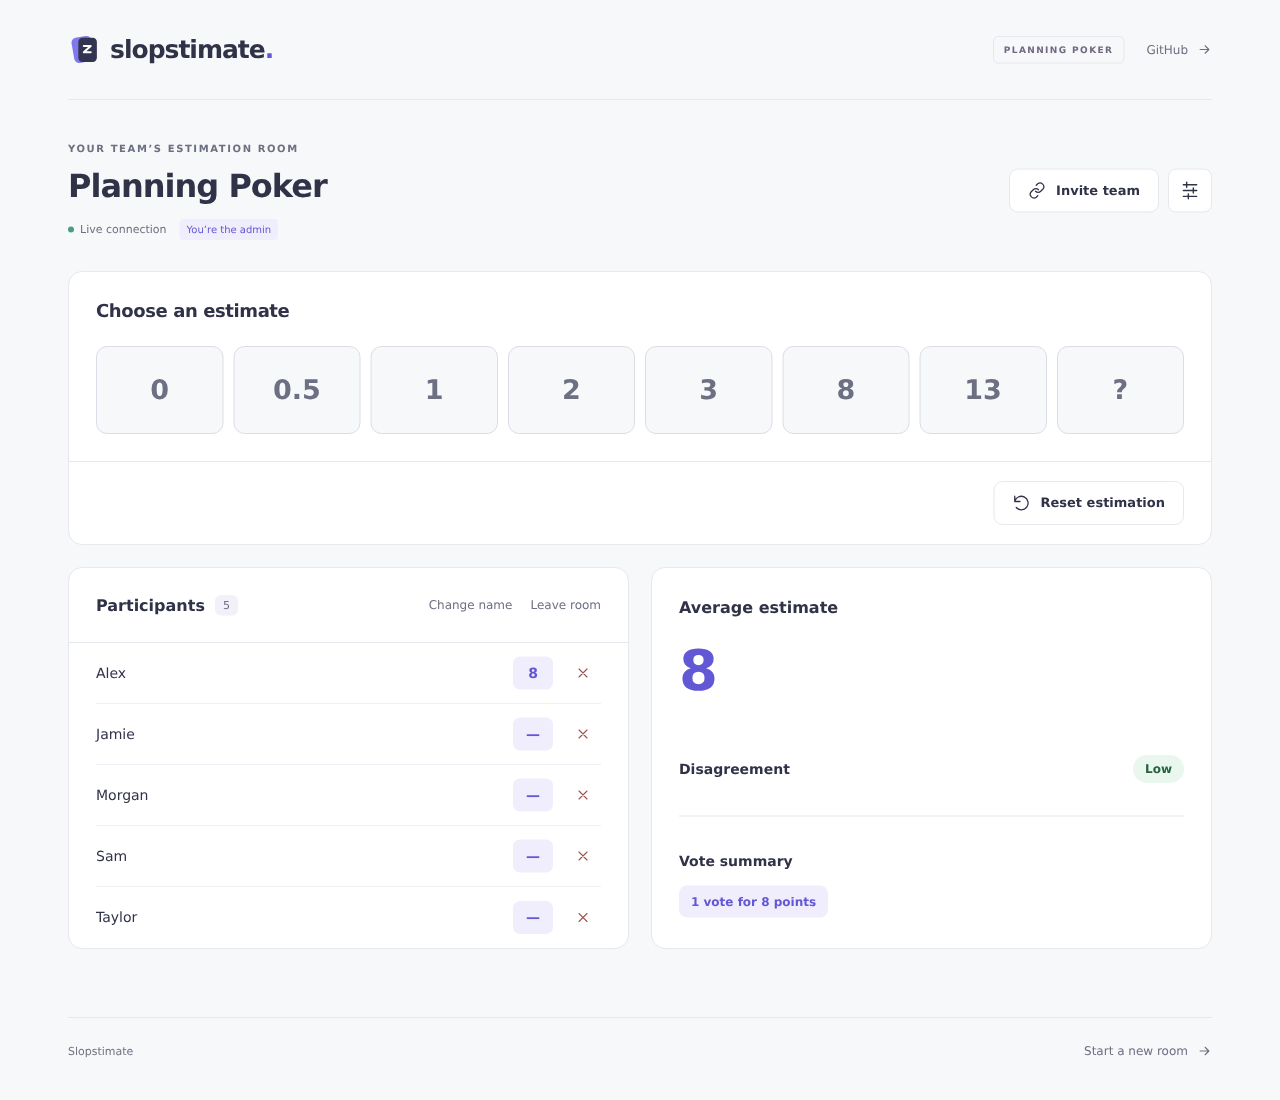
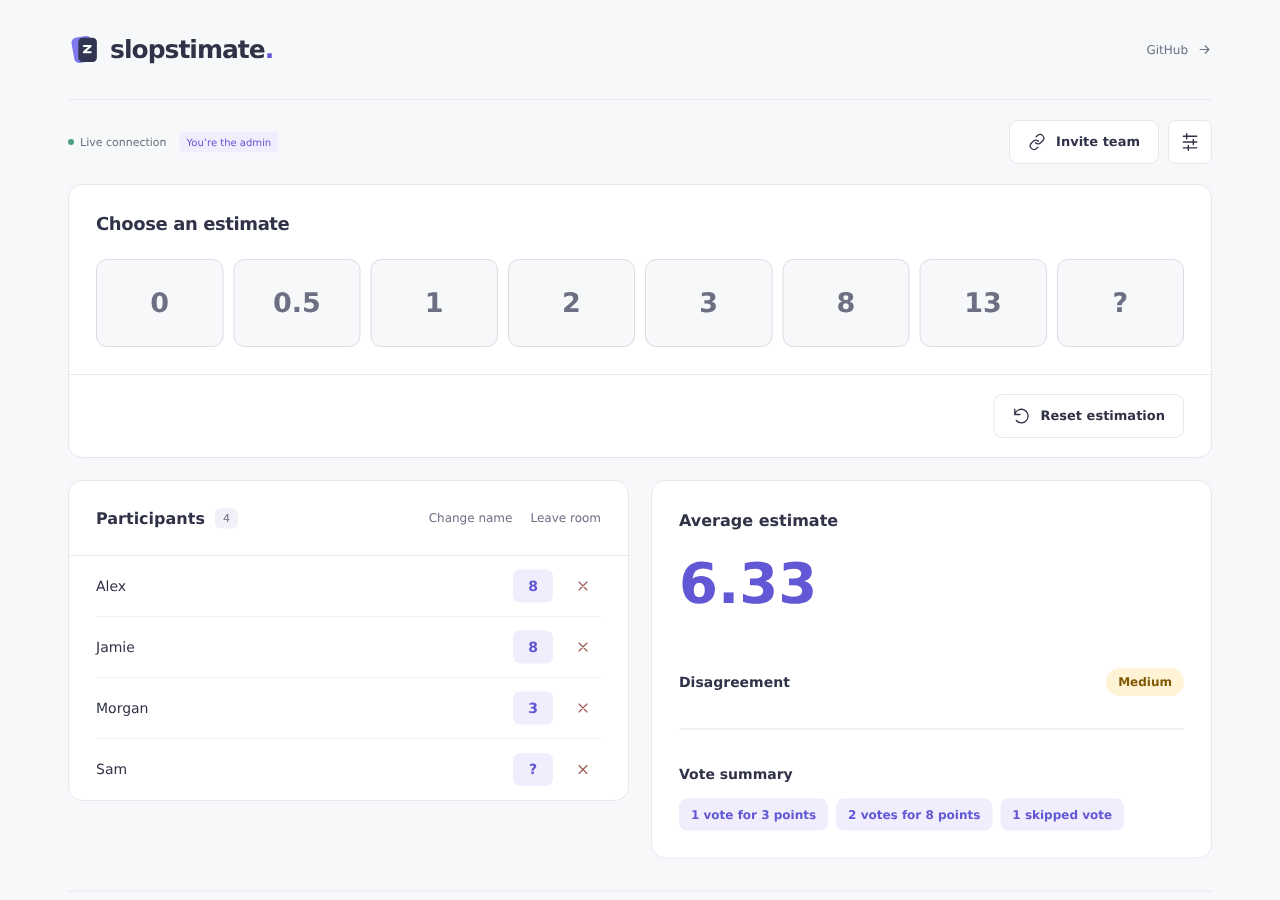
ui: replace large room heading with compact controls

diff --git a/src/client/Room.svelte b/src/client/Room.svelte
@@ -91,14 +91,12 @@
 <div class="site-shell room-shell">
   <header class="site-header">
     <Brand />
-    <div class="header-meta">
-      <span class="small-pill">PLANNING POKER</span><a
-        class="quiet-link"
-        href="https://github.com/phil1995/Slopstimate"
-        target="_blank"
-        rel="noreferrer">GitHub <Icon name="arrow" size={15} /></a
-      >
-    </div>
+    <a
+      class="quiet-link"
+      href="https://github.com/phil1995/Slopstimate"
+      target="_blank"
+      rel="noreferrer">GitHub <Icon name="arrow" size={15} /></a
+    >
   </header>
   {#if c.loading || (c.resolvingIdentity && !c.notFound)}
     <main id="main-content" class="empty-page" aria-live="polite">
@@ -141,25 +139,24 @@
     </main>
   {:else}
     <main id="main-content" class="room-main">
-      <div class="room-heading">
-        <div>
-          <div class="eyebrow">YOUR TEAM’S ESTIMATION ROOM</div>
-          <h1>{c.room.title}</h1>
-          <div class="room-subtitle">
-            <span class="connection" class:live={c.connection === 'connected'}
-              ><span class="tiny-dot"></span>{{
-                connected: 'Live connection',
-                connecting: 'Connecting…',
-                reconnecting: 'Reconnecting…',
-                offline: 'You’re offline',
-                join: 'Join to connect',
-              }[c.connection]}</span
-            >{#if c.isAdmin}<span class="admin-badge">You’re the admin</span
-              >{/if}
-          </div>
+      <h1 class="sr-only">{c.room.title}</h1>
+      <div class="room-toolbar">
+        <div class="room-status">
+          <span class="connection" class:live={c.connection === 'connected'}
+            ><span class="tiny-dot"></span>{{
+              connected: 'Live connection',
+              connecting: 'Connecting…',
+              reconnecting: 'Reconnecting…',
+              offline: 'You’re offline',
+              join: 'Join to connect',
+            }[c.connection]}</span
+          >{#if c.isAdmin}<span class="admin-badge">You’re the admin</span>{/if}
         </div>
-        <div class="heading-actions">
-          <button class="button secondary" onclick={copyLink}
+        <div class="room-actions">
+          <button
+            class="button secondary"
+            onclick={copyLink}
+            aria-label={copied ? 'Link copied' : 'Invite team'}
             ><Icon name={copied ? 'check' : 'link'} size={18} />{copied
               ? 'Link copied'
               : 'Invite team'}</button

diff --git a/src/client/styles.css b/src/client/styles.css
@@ -358,39 +358,28 @@ p {
   margin-top: 20px;
   gap: 20px;
 }
-.header-meta {
-  display: flex;
-  align-items: center;
-  gap: 22px;
-}
-.small-pill {
-  font-size: 9px;
-  letter-spacing: 1.4px;
-  font-weight: 650;
-  color: #716882;
-  padding: 6px 10px;
-  border: 1px solid var(--line);
-  border-radius: 5px;
+.sr-only {
+  position: absolute;
+  width: 1px;
+  height: 1px;
+  padding: 0;
+  margin: -1px;
+  overflow: hidden;
+  clip-path: inset(50%);
+  white-space: nowrap;
+  border: 0;
 }
 .room-main {
-  padding: 41px 0 12px;
+  padding: 20px 0 12px;
 }
-.room-heading {
+.room-toolbar {
   display: flex;
   align-items: center;
   justify-content: space-between;
   gap: 20px;
-  margin-bottom: 31px;
+  margin-bottom: 20px;
 }
-.room-heading h1 {
-  font-size: 32px;
-  line-height: 1.25;
-  font-weight: 690;
-  letter-spacing: -1px;
-  margin: 10px 0 13px;
-  overflow-wrap: anywhere;
-}
-.room-subtitle {
+.room-status {
   display: flex;
   align-items: center;
   flex-wrap: wrap;
@@ -417,7 +406,7 @@ p {
   padding: 3px 7px;
   margin-left: 3px;
 }
-.heading-actions {
+.room-actions {
   display: flex;
   gap: 9px;
   flex-shrink: 0;
@@ -944,26 +933,17 @@ dialog .danger-zone p {
     font-size: 23px;
   }
   .room-main {
-    padding-top: 28px;
+    padding-top: 16px;
   }
-  .room-heading {
-    align-items: start;
-  }
-  .room-heading h1 {
-    font-size: 28px;
-  }
-  .heading-actions .button {
+  .room-actions .button {
     font-size: 0;
     padding: 10px;
     width: 44px;
     gap: 0;
   }
-  .heading-actions .button svg {
+  .room-actions .button svg {
     width: 20px;
     height: 20px;
-  }
-  .header-meta .small-pill {
-    display: none;
   }
   .round-content,
   .round-footer,
@@ -1032,20 +1012,13 @@ dialog .danger-zone p {
   .site-shell {
     padding: 0 16px;
   }
-  .room-heading {
+  .room-toolbar {
     gap: 12px;
   }
-  .room-heading h1 {
-    font-size: 25px;
-  }
-  .room-heading .eyebrow {
-    font-size: 8px;
-    letter-spacing: 1px;
-  }
-  .heading-actions {
+  .room-actions {
     gap: 5px;
   }
-  .room-subtitle {
+  .room-status {
     gap: 7px;
     font-size: 11px;
   }
